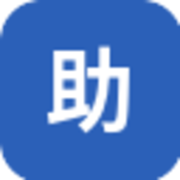
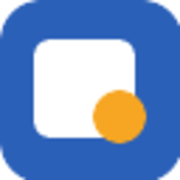
ブランドアイコンの配信元を統一する

Changed region(s): [[0.1667, 0.1944, 0.8333, 0.8056]]

diff --git a/src/app/layout.tsx b/src/app/layout.tsx
@@ -46,7 +46,7 @@ export const metadata: Metadata = {
   icons: {
     icon: [
       { url: '/favicon.ico', sizes: '64x64', type: 'image/x-icon' },
-      { url: '/favicon.svg', type: 'image/svg+xml' },
+      { url: '/brand-mark.svg', type: 'image/svg+xml' },
     ],
     apple: [{ url: '/apple-icon.png', sizes: '180x180', type: 'image/png' }],
   },
@@ -91,7 +91,7 @@ export default function RootLayout({ children }: { children: React.ReactNode }) 
             })),
           }}
         />
-        <link rel="icon" href="/favicon.svg" type="image/svg+xml" />
+        <link rel="icon" href="/brand-mark.svg" type="image/svg+xml" />
       </head>
       <body className="antialiased min-h-screen flex flex-col bg-surface text-ink">
         {siteConfig.analytics.ga4MeasurementId && <AnalyticsEvents />}

diff --git a/src/components/Header.tsx b/src/components/Header.tsx
@@ -47,7 +47,7 @@ export default function Header() {
       <div className="mx-auto flex h-16 max-w-7xl items-center justify-between gap-3 px-4 sm:px-6">
         <Link href="/" className="flex min-h-11 min-w-0 items-center gap-2.5 rounded-md" aria-label="助成金ナビ">
           <Image
-            src="/favicon.svg"
+            src="/brand-mark.svg"
             width={36}
             height={36}
             alt=""

diff --git a/src/components/Footer.tsx b/src/components/Footer.tsx
@@ -16,7 +16,7 @@ export default function Footer() {
           <div>
             <Link href="/" className="inline-flex min-h-11 items-center gap-2 rounded-md">
               <Image
-                src="/favicon.svg"
+                src="/brand-mark.svg"
                 width={32}
                 height={32}
                 alt=""
